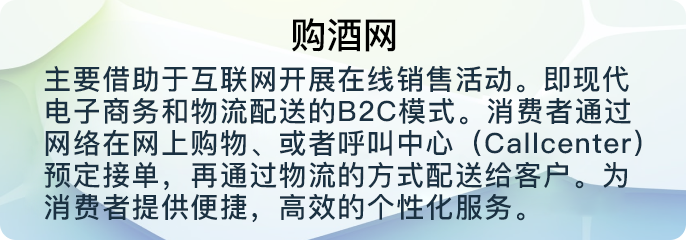
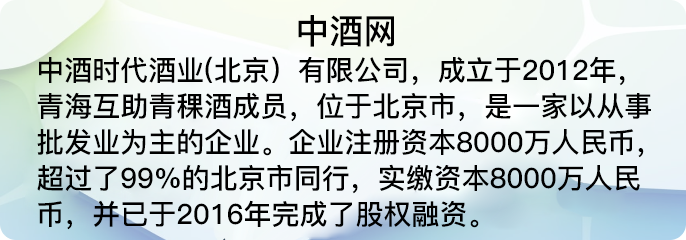
改名字

diff --git a/src/page/home/index.tsx b/src/page/home/index.tsx
@@ -237,7 +237,7 @@ export default () => {
 						</Grid.Item>
 						<Grid.Item className='sc-button' onClick={()=>{Auth.navigate(navigate,"/activity")}}>
 							<Image className='sc-button-img' src="/sc/button2.png" />
-							<div>购酒网</div>
+							<div>中酒网</div>
 						</Grid.Item>
 						<Grid.Item className='sc-button' onClick={()=>{Auth.navigate(navigate,"/record")}}>
 							<Image className='sc-button-img' src="/sc/button4.png" />

diff --git a/src/page/activity/info.tsx b/src/page/activity/info.tsx
@@ -50,7 +50,7 @@ export default () => {
   return (
 	<div className='App-main'>
 		<header className="App-header"  >
-      <NavBar className='app-header' onBack={back}>购酒网</NavBar>
+      <NavBar className='app-header' onBack={back}>中酒网</NavBar>
 		</header>
 		<div className='App-content' style={{height:window.innerHeight-45,background:'#fff'}}>	
 			<div className='activity-body' style={{fontSize: '14px'}}>

diff --git a/src/page/activity/index.tsx b/src/page/activity/index.tsx
@@ -56,7 +56,7 @@ export default () => {
   return (
 		<div className='App-main'>
 			<header className="App-header"  >
-				<NavBar className='app-header' onBack={back}>购酒网</NavBar>
+				<NavBar className='app-header' onBack={back}>中酒网</NavBar>
 			</header>
 			<div className='App-content' style={{height:window.innerHeight-45}}>
 				{html}	
